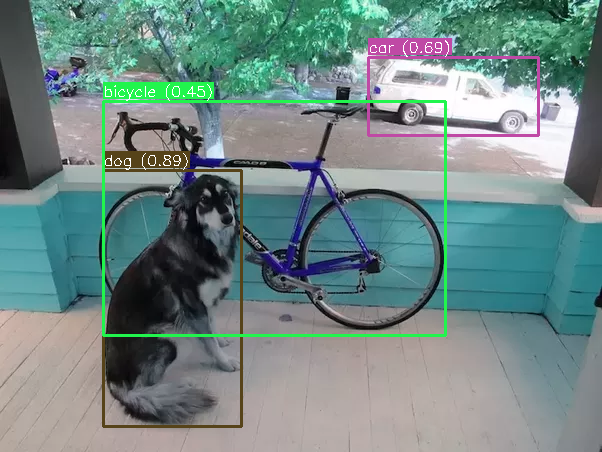
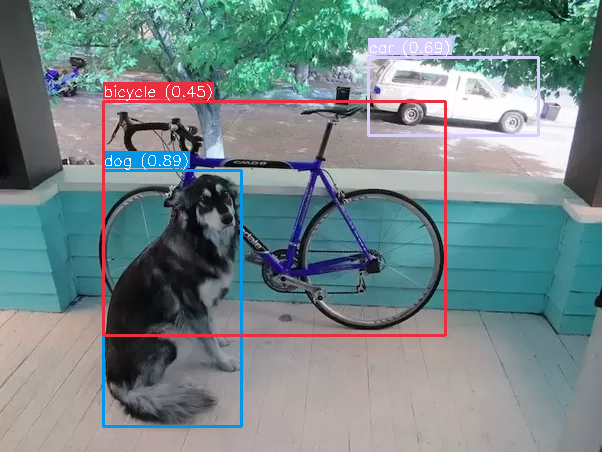
UI change to display output image

Changed region(s): [[0.1495, 0.0619, 0.897, 0.9602]]

diff --git a/ui/templates/home.html b/ui/templates/home.html
@@ -171,8 +171,8 @@
         <!-- Author Information -->
         <div class="author">
             <p>
-                AMIT | 
-                <a>amitaaranya@gmail.com</a> | 
+                AMIT |
+                <a>amitaaranya@gmail.com</a> |
                 <a href="https://www.linkedin.com/in/amitaaranya/" target="_blank">LinkedIn</a>
             </p>
         </div>
@@ -208,13 +208,31 @@
                 formData.append("image", selectedImage);
 
                 // Call the backend API "detect" using fetch
-                fetch("http://127.0.0.1:5000/detect", {
+                fetch("/detect", {
                     method: "POST",
                     body: formData,
                 })
                     .then(response => response.json())
                     .then(data => {
                         console.log("Detection result:", data);
+
+                        if (data.status === "success" && data.filename) {
+                            fetch(`/image/out_${data.filename}`)
+                                .then(response => response.blob())  // Get the image as a Blob
+                                .then(imageBlob => {
+                                    // Create an object URL for the Blob
+                                    const imageUrl = URL.createObjectURL(imageBlob);
+
+                                    // Update the image preview with the new image
+                                    const imagePreview = document.getElementById('imagePreview');
+                                    imagePreview.src = imageUrl;
+                                    imagePreview.style.display = 'block'; // Ensure the image is visible
+                                })
+                                .catch(error => {
+                                    console.error("Error fetching the image:", error);
+                                    alert("Error fetching the image!");
+                                });
+                        }
 
                         // Display the result in the right section
                         const detectResultDiv = document.getElementById('detectResult');

diff --git a/ui/app.py b/ui/app.py
@@ -8,7 +8,7 @@ app = Flask(__name__)
 AI_BACKEND_URL = os.getenv("AI_BACKEND_URL","http://127.0.0.1:5001")
 if not AI_BACKEND_URL:
     raise Exception
-DATA_PATH = os.getenv("DATA_PATH","../data")
+DATA_PATH = os.getenv("DATA_PATH",os.path.join("..","data"))
 
 
 @app.route("/")
@@ -34,19 +34,19 @@ def detect():
 
 
 
-@app.get("/image/<path>")
-def show_image(path):
+@app.get("/image/<filename>")
+def show_image(filename):
     # Check if the file exists
-    if not os.path.exists(path):
+    if not os.path.exists(os.path.join(DATA_PATH,filename)):
         return jsonify({"error": "Image path does not exist"}), 404
 
     # Get the MIME type of the file based on its extension
-    mime_type, _ = mimetypes.guess_type(path)
+    mime_type, _ = mimetypes.guess_type(os.path.join(DATA_PATH,filename))
     if not mime_type:
         mime_type = 'application/octet-stream'  # Default MIME type if unable to guess
     
     # Send the file with the correct MIME type
-    return send_file(path, mimetype=mime_type)
+    return send_file(os.path.join(DATA_PATH,filename), mimetype=mime_type)
 
 
 @app.get("/check-ai-backend")

diff --git a/ai-backend/app.py b/ai-backend/app.py
@@ -43,8 +43,9 @@ def detect_objects():
     output_image_path = os.path.join(DATA_PATH,f"out_{file.filename}")
     output_img_np = create_bounding_box(detected_objects,np.array(img),output_image_path)
     res = {
+        'status': "success",
         'detections': detected_objects,
-        'path': output_image_path
+        'filename': file.filename
     }
     json.dump(res,open(os.path.join(DATA_PATH,f"{file.filename}.json"),"w"),indent=4)
     return jsonify(res)
